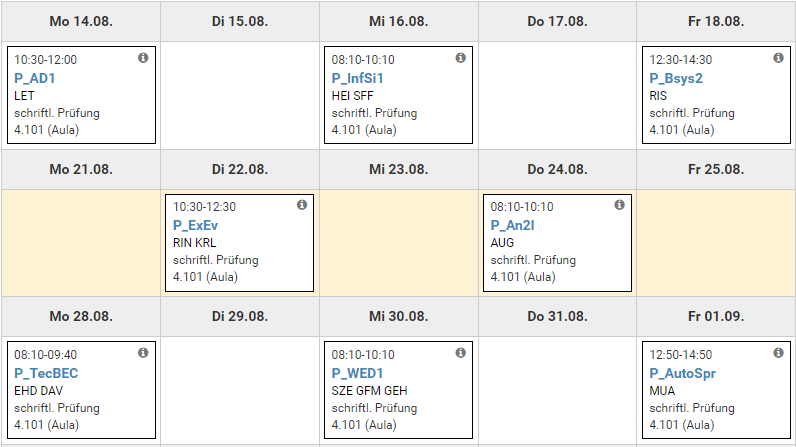
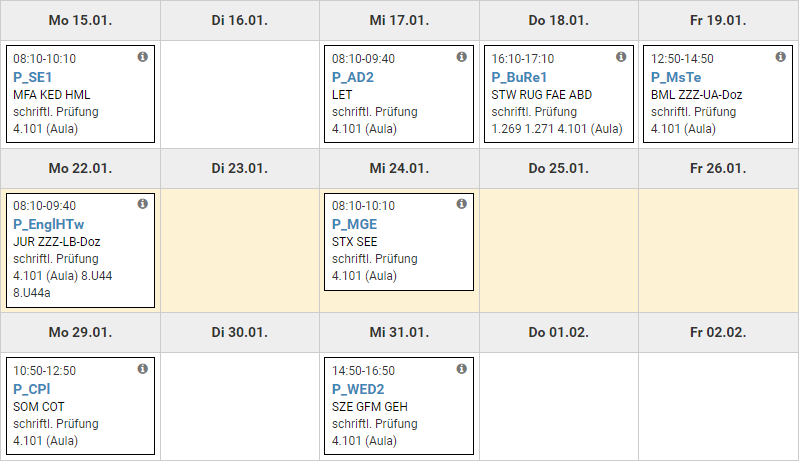
first

diff --git a/index.md b/index.md
@@ -4,88 +4,27 @@ title: HSR tests overview
 
 ![Test plan](./tests.png)
 
-## Algorithmen und Datenstrukturen (Mo. 14. August) [(Skripte)](https://skripte.hsr.ch/Informatik/Fachbereich/Algorithmen_und_Datenstrukturen_1/AD1/)
+## Software Engineering (Mo. 15. Januar) [(Moodle)](https://moodle.hsr.ch/course/view.php?id=1076)
 
-- Beratung: Di. 8. August 08:10-09:50 Uhr @ 3.008
-- Fragen zur Prüfung können per EMail bis drei Tage vor der Prüfung gestellt werden
-- Es dürfen beliebige Papierunterlagen verwendet werden
-- Keine elektronischen Hilfsmittel
+## Algorithmen und Datenstrukturen 2 (Mi. 17. Januar) [(Skripte)](https://skripte.hsr.ch/Informatik/Fachbereich/Algorithmen_und_Datenstrukturen_2/AD2/)
 
-[src](https://skripte.hsr.ch/Informatik/Fachbereich/Algorithmen_und_Datenstrukturen_1/AD1/5_Pruefung/1_InformationenZurPruefung_v1.0.pdf)
+## Recht (Do. 18. Januar) (infos in Emails)
 
-## Informationssicherheit 1 (Mi. 16. August) [(Skripte)](https://skripte.hsr.ch/Informatik/Fachbereich/Informationssicherheit_1_-_Grundlagen/InfSi1/)
+## DotNet Technologien [(Skripte)](https://skripte.hsr.ch/Informatik/Fachbereich/DotNet_Technologien/MsTe/)
 
-- (Teil der) Prüfung ohne Rechner, ohne Unterlagen, Formeln werden angegeben, vgl. alte Prüfungen
-- Gesamter Stoff (Vorlesung, Übungen, Selbststudium)
-  - 11/15 Heinzmann, 4/15 Steffen
-- Selbststudium
-  - Wannacry - PDF Malware, Makroviren (zwei Heise Berichte, 4+6 Seiten)
-- Praxisteil
-  - Notebook mitnehmen
-  - Web-Anwendungen, Wireshark, Cryptool (Mac mit VM mit Windows), OpenSSL (Übung zu OpenSSL durcharbeiten)
-  - Lernkontrolle Account (mobilequiz) muss bereit sein
-  - Persönliches Zertifikat zu S/MIME für Mail Signatur/Verschlüsselung
-- Lernhilfe:
-  - Skript mit Notizen und Videos
-  - Übungen durcharbeiten
-  - Lernkontrollen zur Repetition Wissensfragen durcharbeiten
-  - Beispielprüfung der beiden Vorjahre lösen
-- Fragen
-  - Community InfSi1 auf Google+
-  - Per Mail an verantwortlichen Dozenten
+## English: How Things Work (Mo. 22. Januar) [(Skripte)](https://skripte.hsr.ch/Kommunikation_Wirtschaft_Recht/English_How_Things_work/EnglHTw/)
 
-## Betriebssysteme 2 (Fr. 18. August) [(Moodle)](https://moodle.hsr.ch/course/view.php?id=913)
+## Mobile and GUI Engineering (Mi. 24. Januar) [(Skripte)](https://skripte.hsr.ch/Informatik/Fachbereich/Mobile_and_GUI_Engineering/MGE/)
 
-- Alle Vorlesungsfolien sind prüfungsrelevanter Stoff
-- Hilfsmittel:
-  - **eigens** geschriebene Zusammenfassung
-  - Maximal 4 A4-Seiten normal bedruckt (Richtwert: Arial 10)
-  - Muss auch mit abgegeben werden
+* 10-seitige Zusammenfassung pro Teil (Android und WPF)
 
-[src](https://moodle.hsr.ch/mod/resource/view.php?id=34894)
+[src](https://skripte.hsr.ch/Informatik/Fachbereich/Mobile_and_GUI_Engineering/MGE/Informationen%20zur%20Pr%c3%bcfung.pdf)
 
-## Experimentieren und Evaluieren (Di. 22. August) [(Skripte)](https://skripte.hsr.ch/Informatik/Fachbereich/Experimentieren_und_Evaluieren_fuer_Informatik/ExEv/)
+## C Plus Plus (Mo. 29. Januar) [(Website)](https://wiki.ifs.hsr.ch/CPlusPlus/wiki.cgi?CPlusPlus)
 
-- Teil mit und Teil ohne Unterlagen
-- Mit Taschenrechner
-- Formelsammlung
-  - kann "angereichert" werden
-  - maximal ein Anwendungsbeispiel pro Formel
+## Web Engineering und Design 2 (Mi. 31. Januar) [(Skripte)](https://skripte.hsr.ch/Informatik/Fachbereich/Web_Engineering_+_Design_1/WED1/)
 
-src: Fragestunde
-
-## Analysis 2 (Do. 24. August) [(Moodle)](https://moodle.hsr.ch/course/view.php?id=455)
-
-Der Prüfungsstoff umfasst das gesamte Skript ohne die im Inhaltsverzeichnis mit einem Stern (\*) gekennzeichneten Kapitel.
-
-- Beratungswoche: Doppellektionen
-- Dauer: 120min
-- Formelsammlung liegt der Prüfung bei
-- [Probeprüfung](https://moodle.hsr.ch/mod/resource/view.php?id=15206) 170min
-  - [Formelsammlung](https://moodle.hsr.ch/mod/resource/view.php?id=34151)
-- Vergleich alte Prüfungen
-  - Integrieren ist intensiver behandelt worden
-  - Aufgabe 7 kommt nicht mehr vor
-
-[src](https://moodle.hsr.ch/mod/page/view.php?id=11893)
-
-## English: Where Tech Meets BEC (Mo. 28. August) [(Skripte)](https://skripte.hsr.ch/Kommunikation_Wirtschaft_Recht/English_Where_Tech_Meets_BEC/TecBEC/)
-
-
-
-## Web Engineering und Design (Mi. 30. August) [(Skripte)](https://skripte.hsr.ch/Informatik/Fachbereich/Web_Engineering_+_Design_1/WED1/)
-
-
-
-## Automaten und Sprachen (Fr. 1. September) [(Moodle)](https://moodle.hsr.ch/course/view.php?id=106)
-
-- Stoff:
-  - Vorlesungen
-  - Behandelte Teile des Skripts
-    - inkl. Probleme des Karp'schen Katalogs
-- Dauer 120min
-- Lösungsweg muss dabei sein
-- Zusammenfassung: maximal 1m^2 (16 Seiten A4)
-- Mit Taschenrechner (auch komplexe Taschenrechner sind erlaubt)
-
-[src](https://moodle.hsr.ch/mod/resource/view.php?id=5119)
+* Grid
+* OO
+* Typescript
+* Testat
